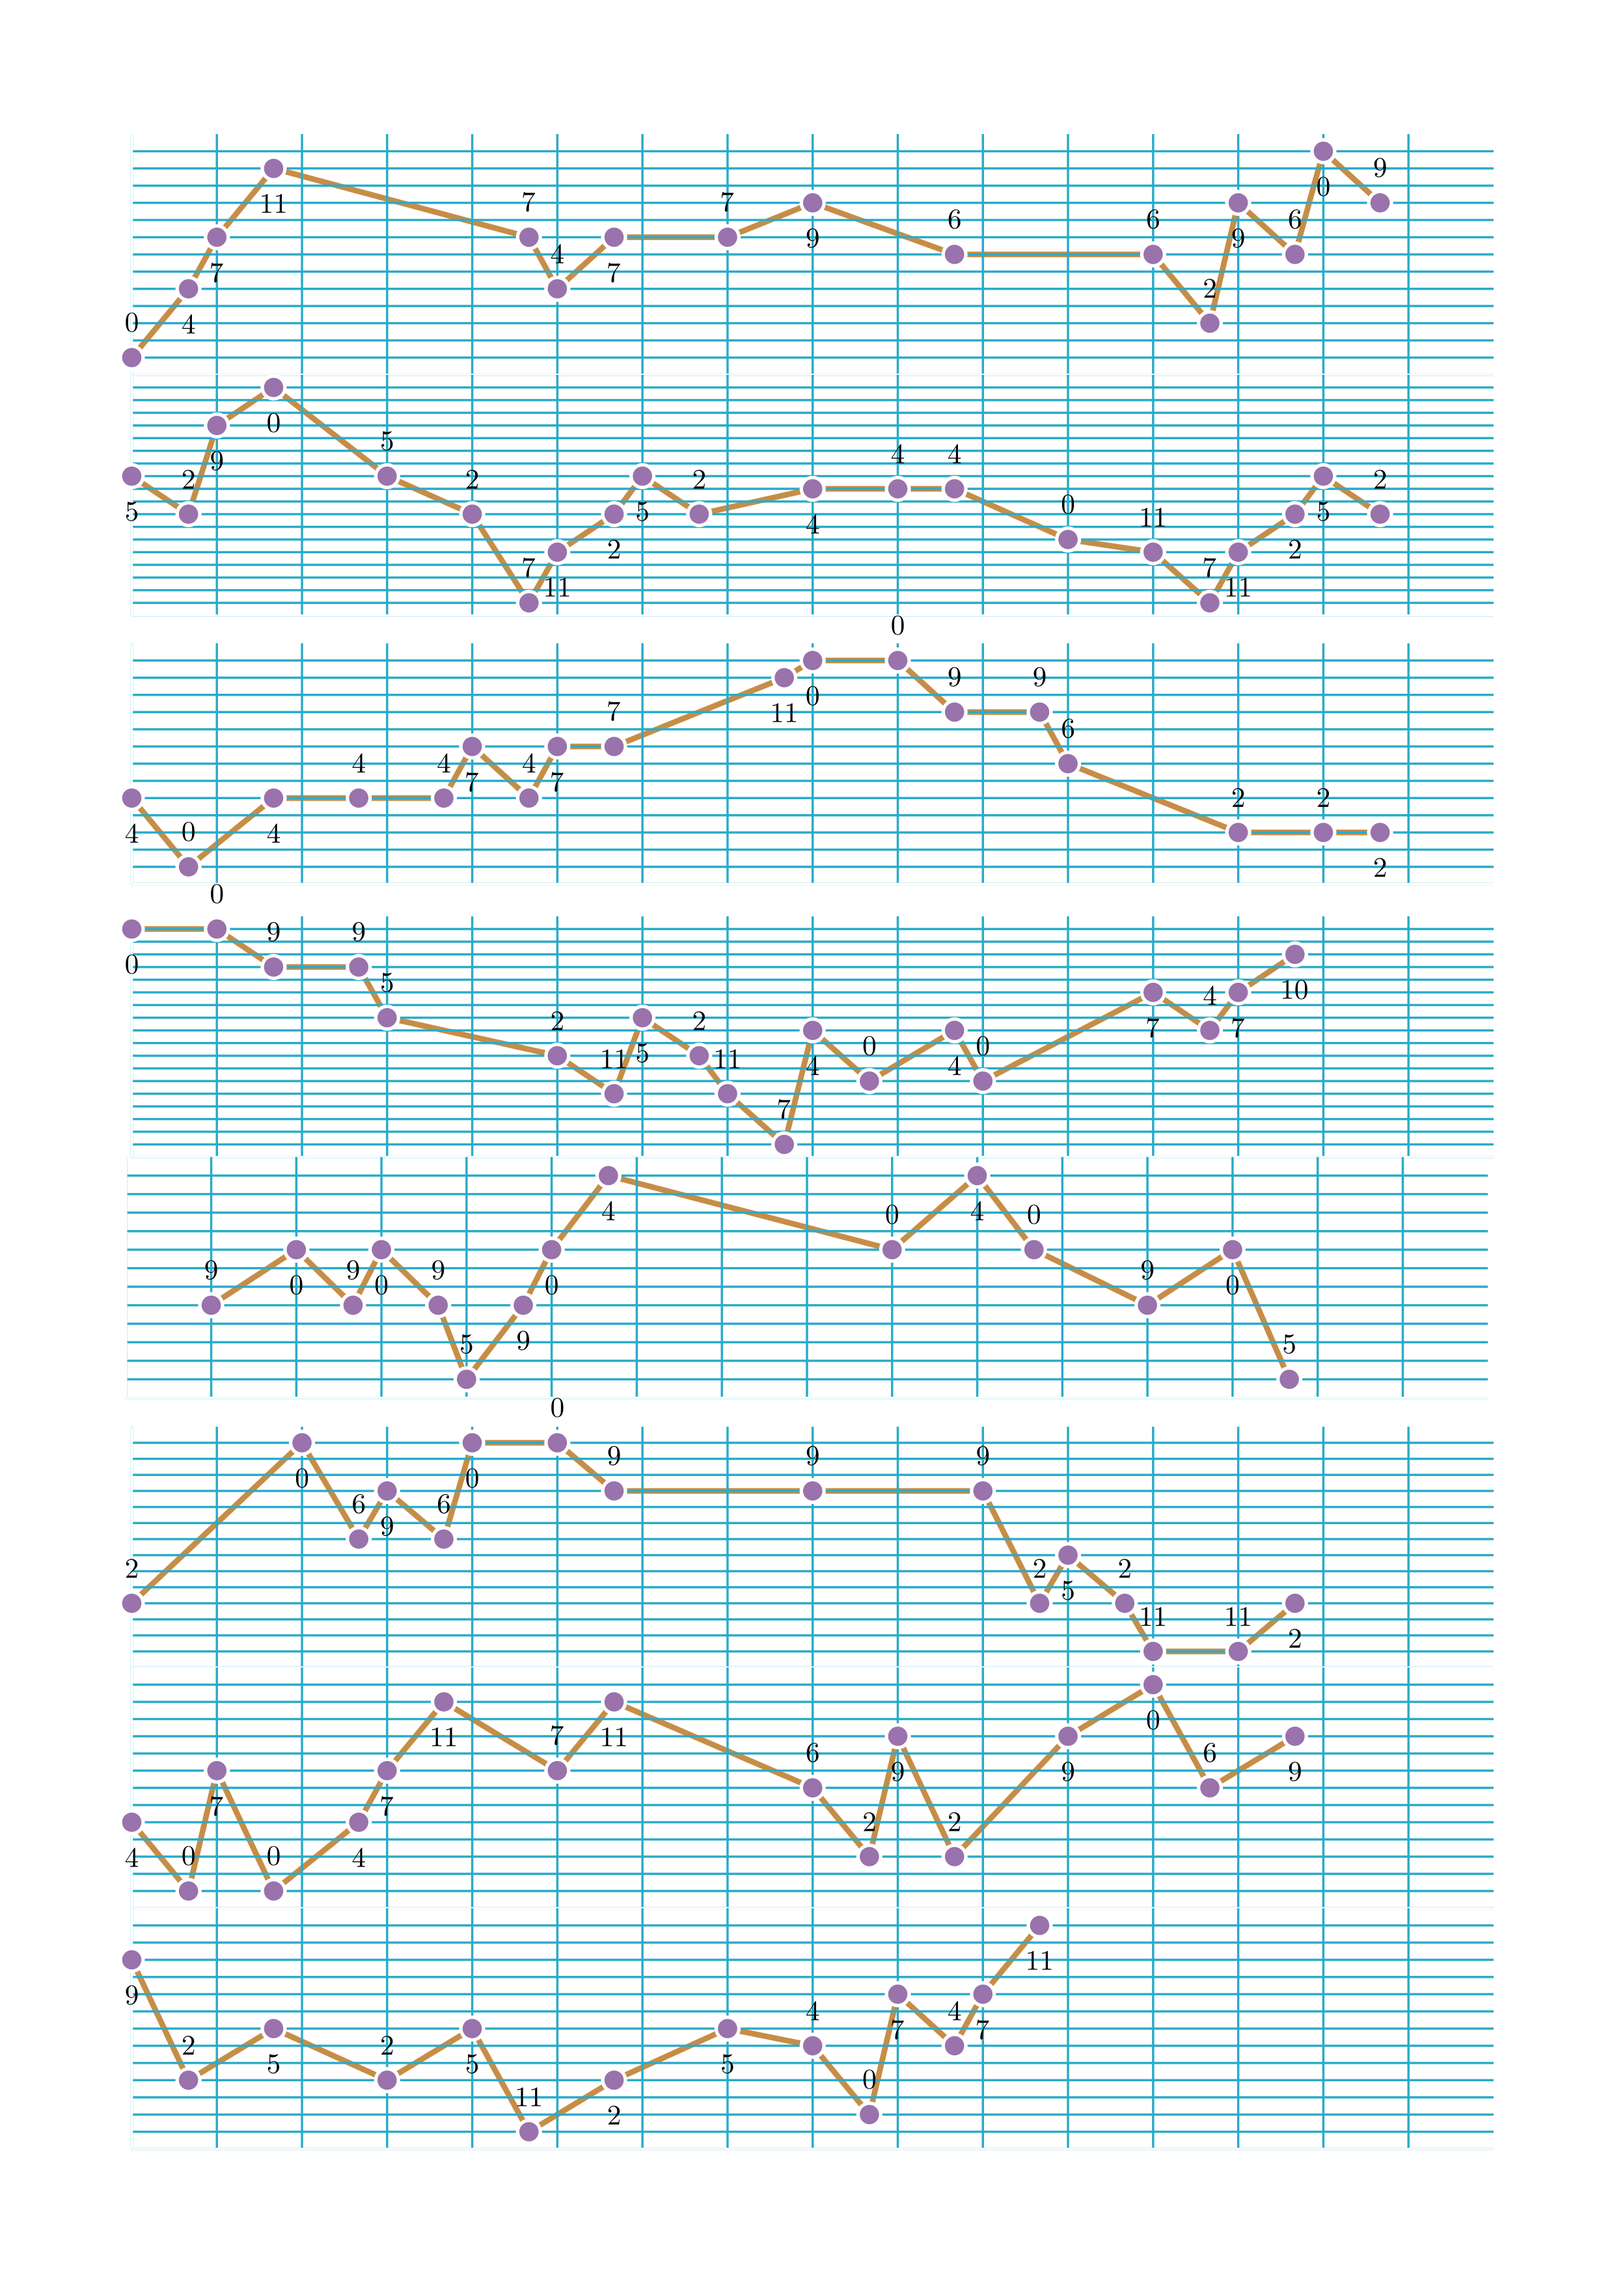
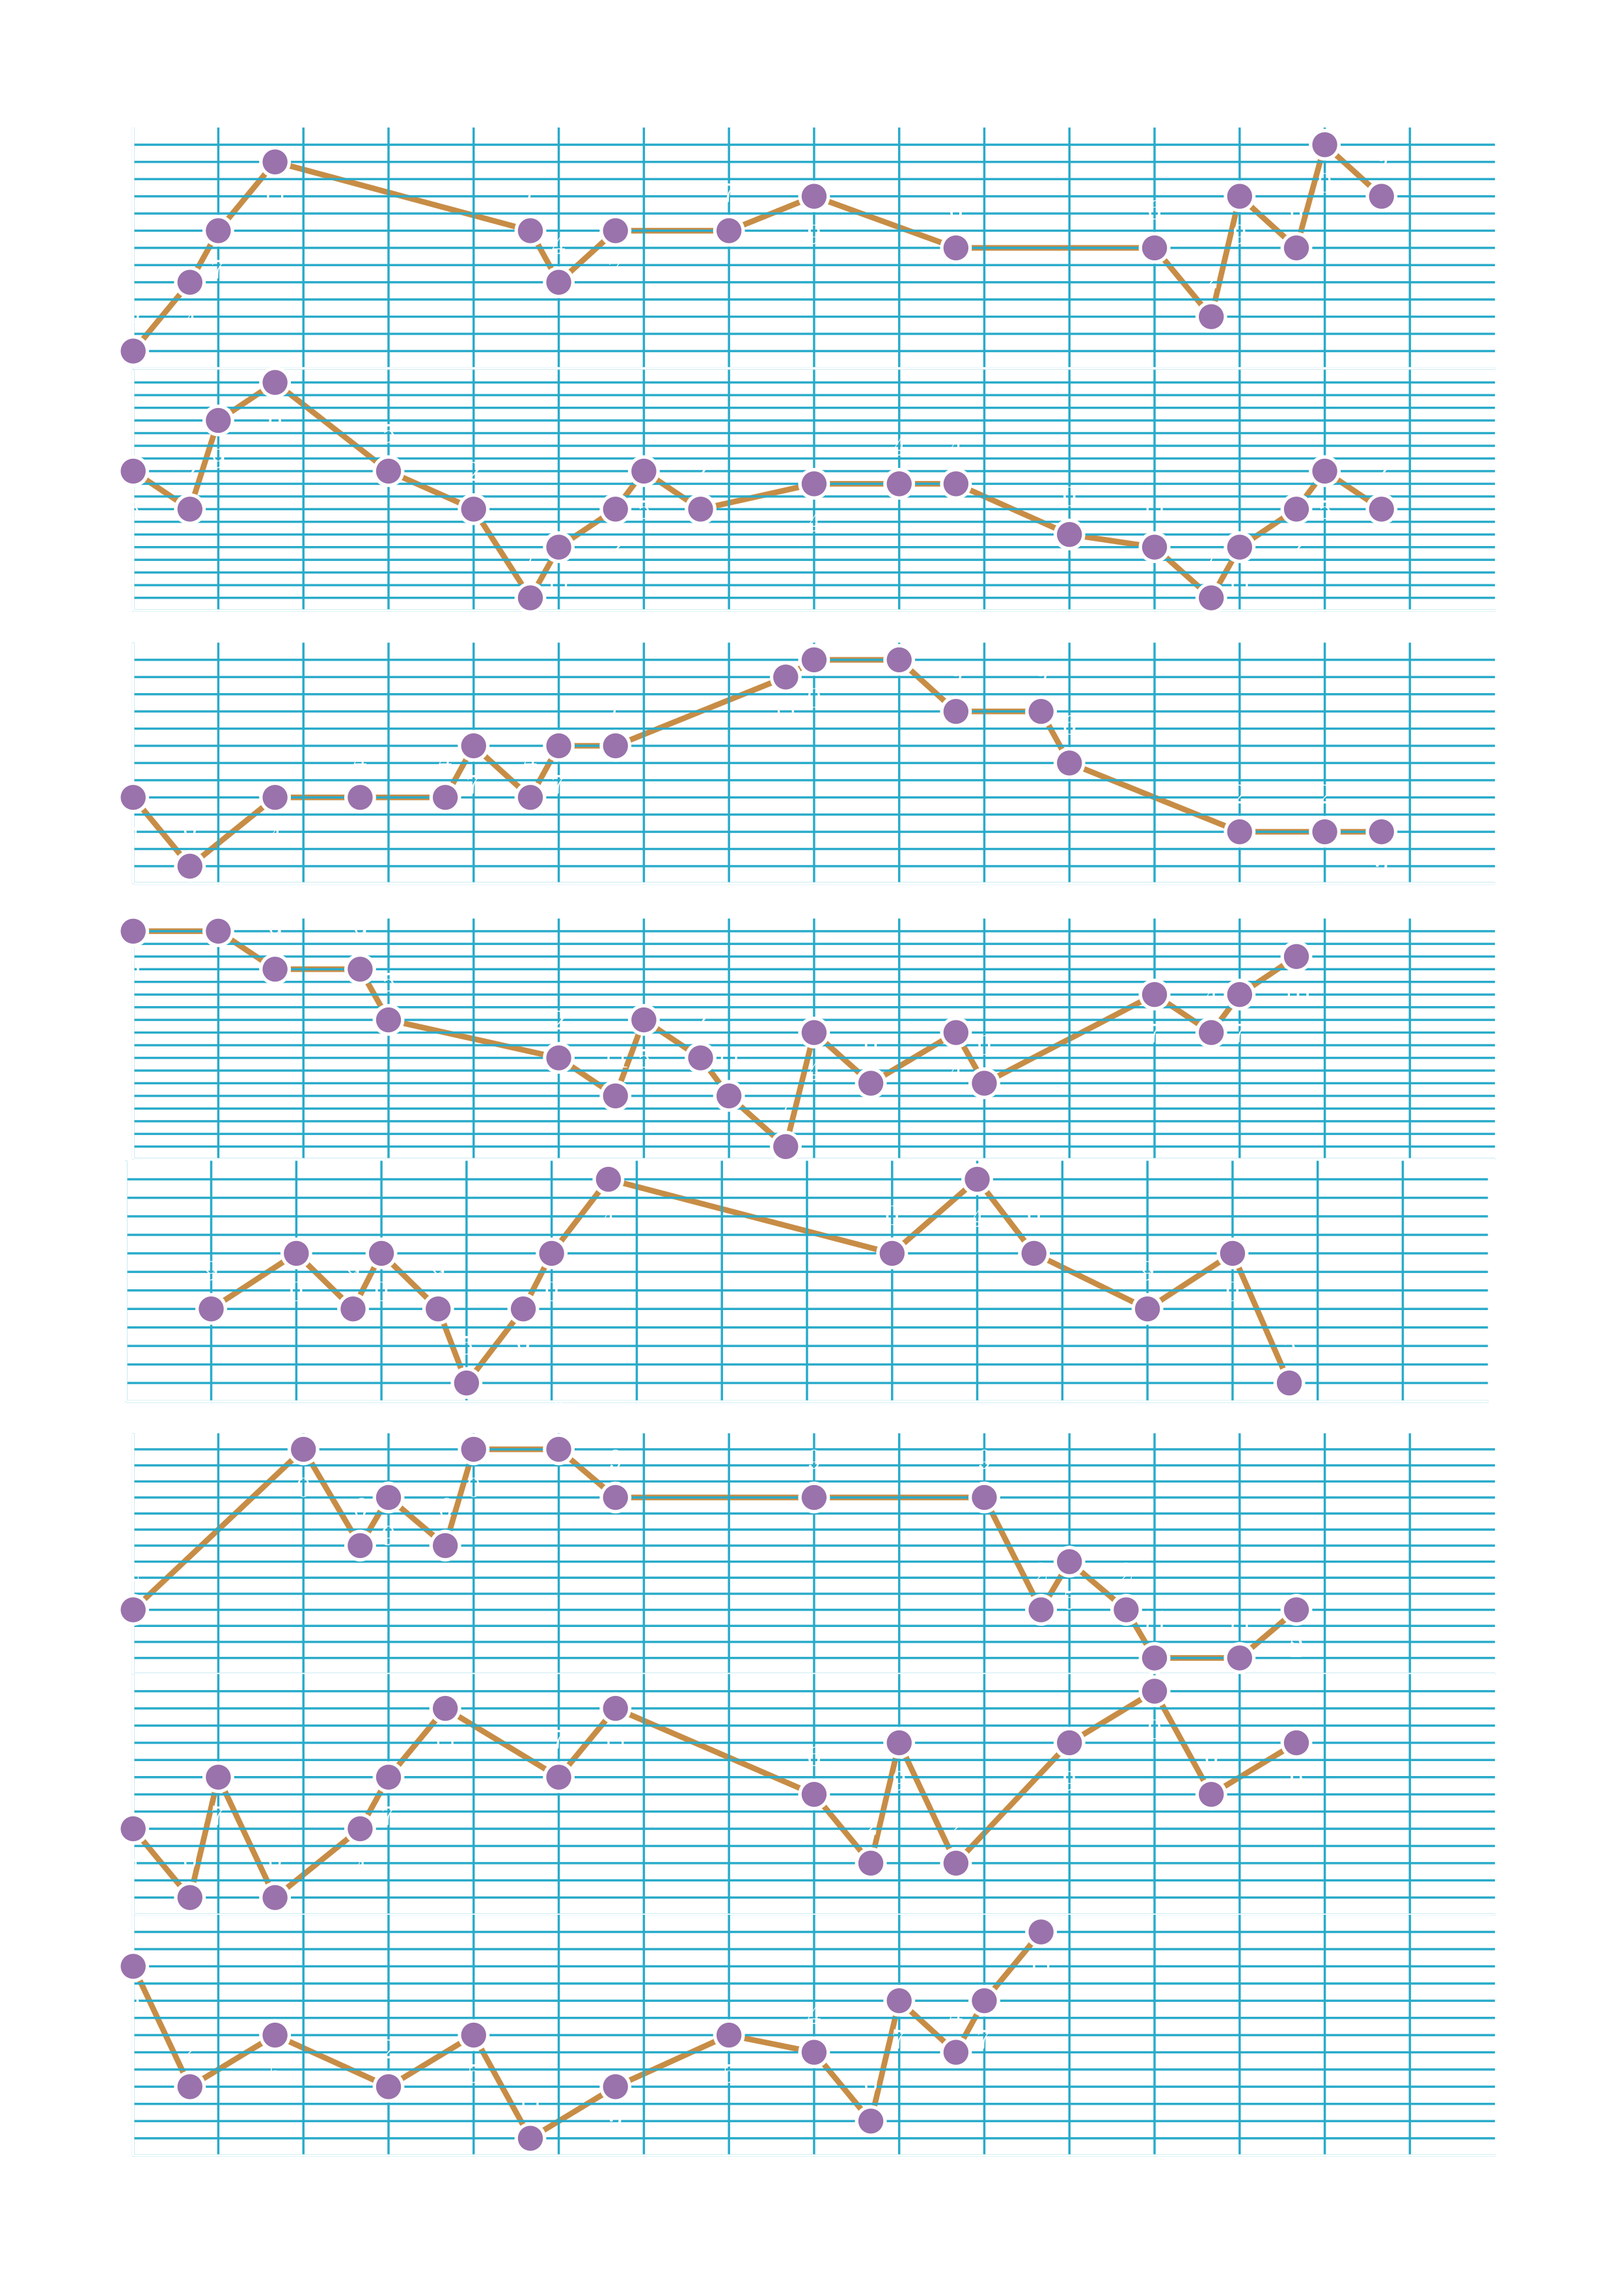
create melody sheet

Changed region(s): [[0.0621, 0.0621, 0.9315, 0.9632]]

diff --git a/line_graph.py b/line_graph.py
@@ -25,7 +25,7 @@ def create_line_graph(x_values, y_values, x_start, x_end, width, height ):
         y_values = y_values,
         line_color=GOLD_E,
         vertex_dot_style=dict(stroke_width=3,  fill_color=PURPLE),
-        vertex_dot_radius=1/10,
+        vertex_dot_radius=1/8,
         stroke_width = 5,
     )
     labels = VGroup()
@@ -71,7 +71,7 @@ def create_line_graph(x_values, y_values, x_start, x_end, width, height ):
 
         # add z componenent
         annotate_offset.append(0)
-        label = Tex(str(y_values[i] % 12), color=BLACK).scale(.5)
+        label = Tex(str(y_values[i] % 12), color=WHITE).scale(.5)
         print(annotate_offset)
         labels.add(label.next_to(line_graph["vertex_dots"][i], np.array(annotate_offset)))
 
